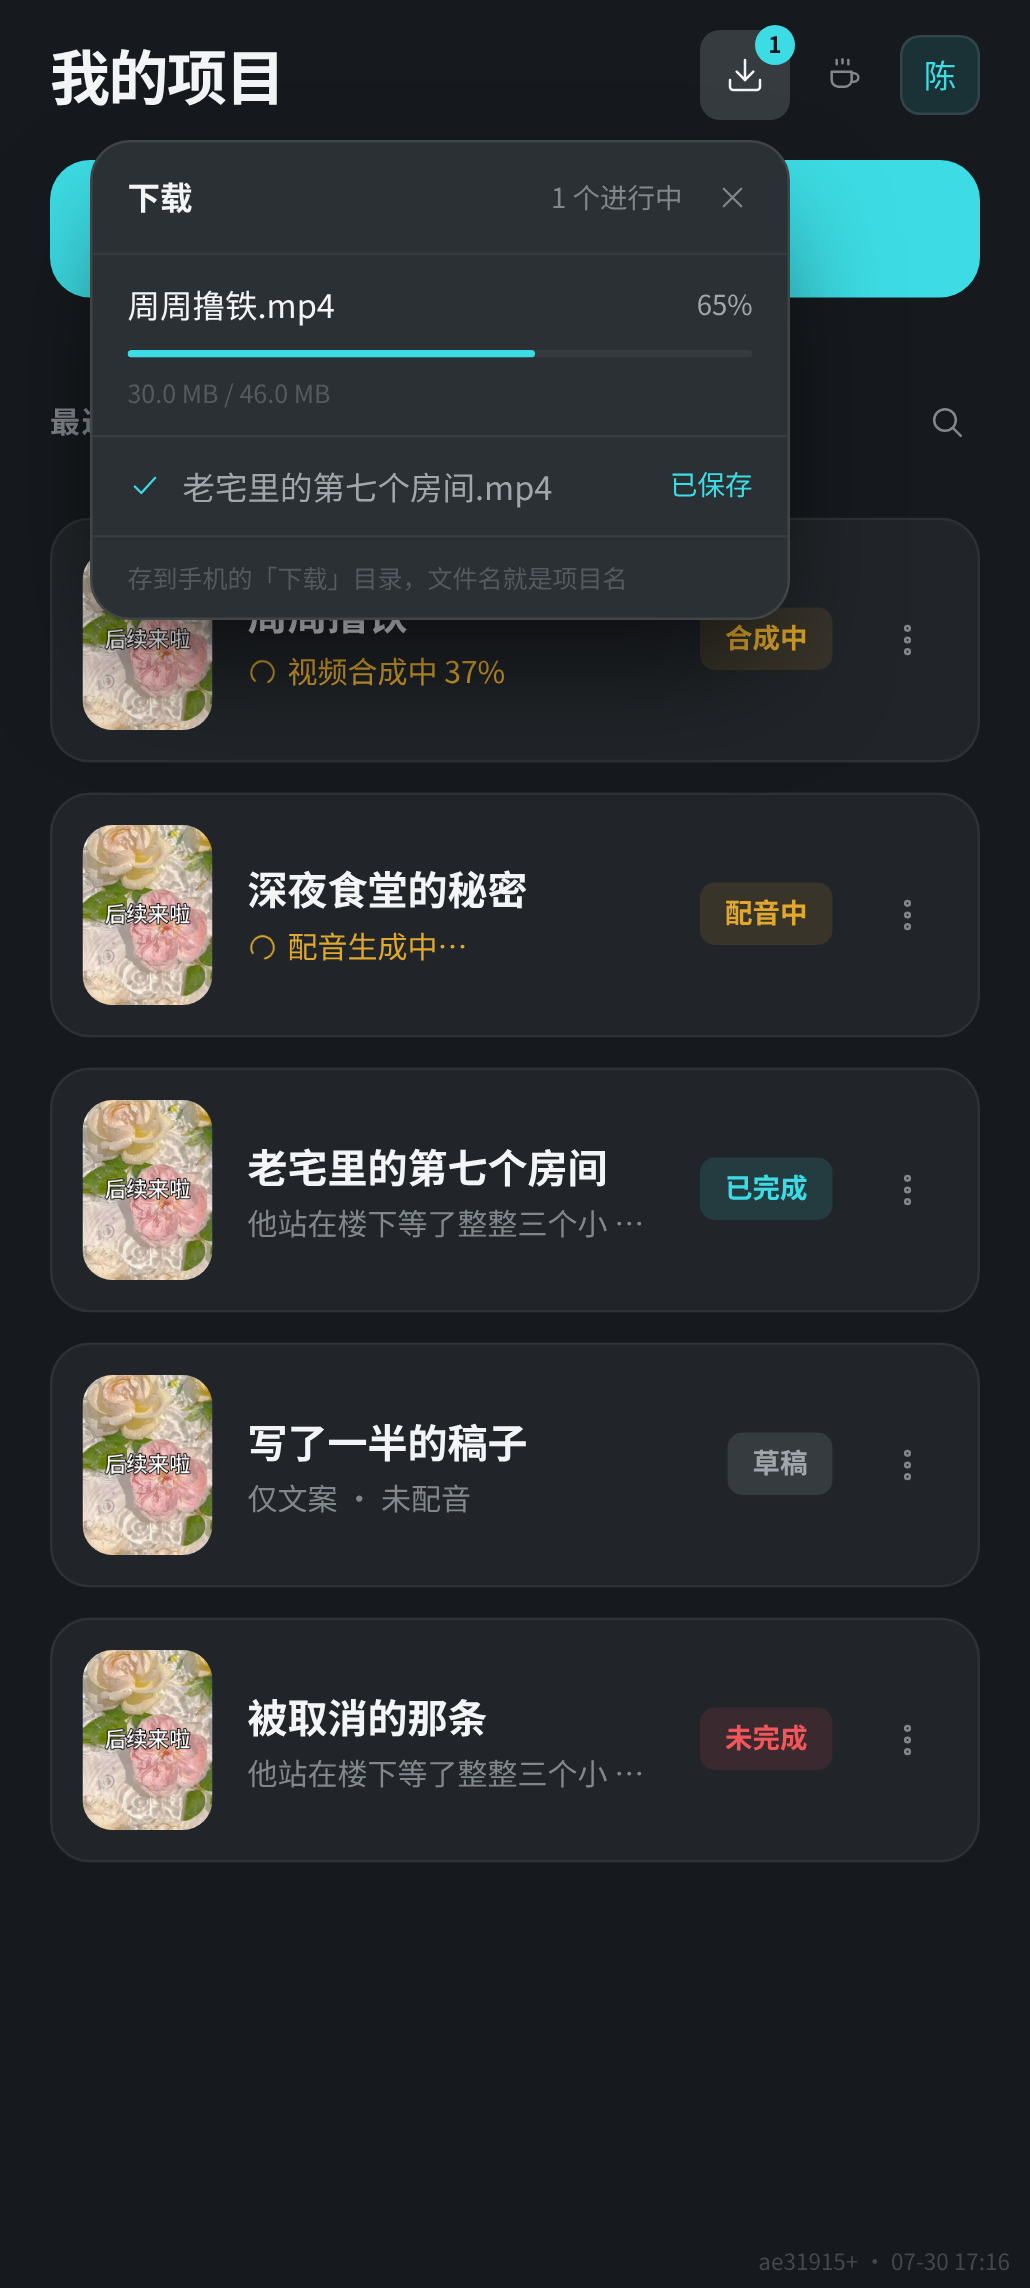
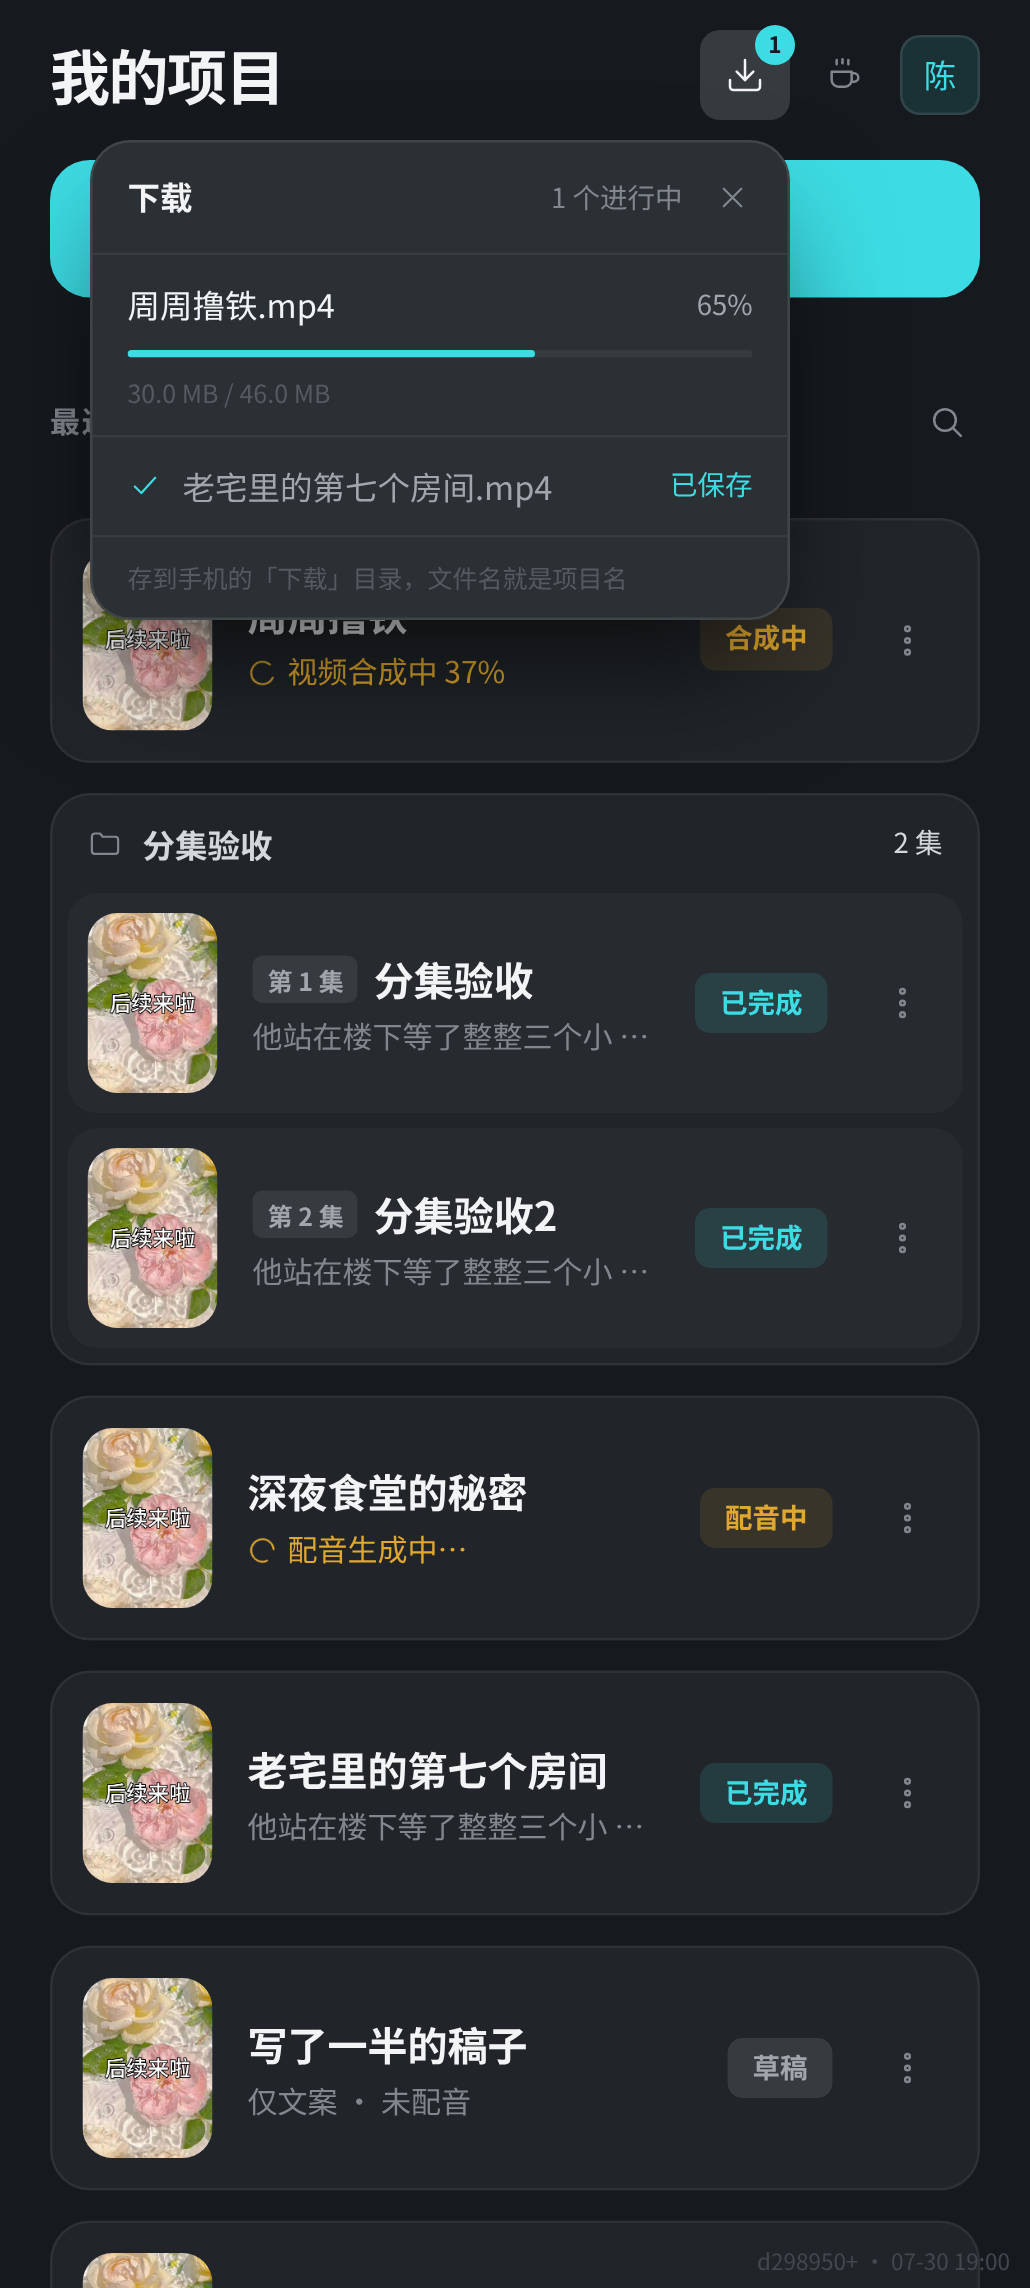
chore: 分集验收的实拍截图 + 估算校准说明

diff --git a/screenshots/README.md b/screenshots/README.md
@@ -10,6 +10,8 @@
 | --- | --- |
 | `list.png` | 项目列表。缩略图是**真封面**（按宽度铺满、纵向居中裁切）；分隔带上下留白；「被取消的那条」显示**未完成** |
 | `cover-repro.png` / `cover-diff.png` | 封面复刻 vs 参考图。差异图里红=参考多出、绿=复刻多出、白=重合——只剩边缘一像素 |
+| `episode-1-cover.png` / `episode-2-cover.png` | 分集验收：主片和续集各自的封面第一帧 |
+| `episode-reminder.png` | 续集第 88.6 秒——「分集验收第二集开始啦」念出来、有字幕，背景此时已经是地铁跑酷 |
 | `cover-titles.png` | 四种长度的标题：4 字（和参考同字号）、9 字（换两行）、7 字、14 字（换行 + 缩字号） |
 | `downloads.png` | 下载队列悬浮框（进行中一条 + 已保存一条 + 底部说明） |
 | `search-mid.png` | 放大镜拉开到一半的中间帧——用来看展开动画有没有真的在动 |
